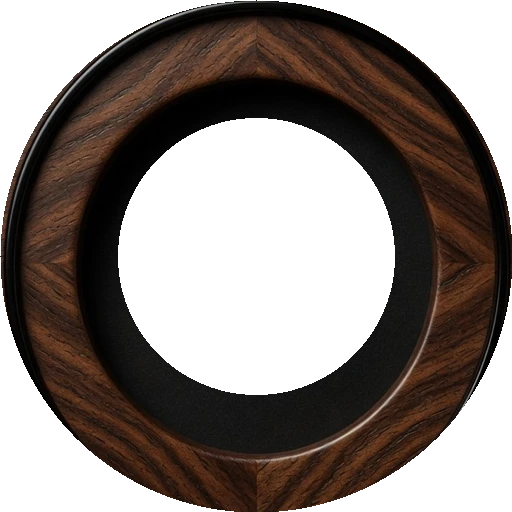
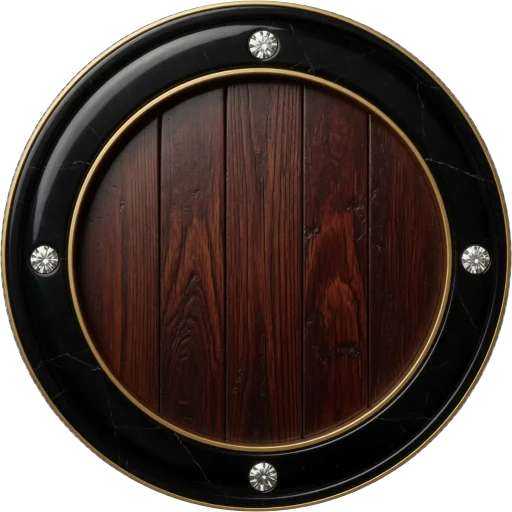
feat(badges): the seven signed photoreal plates - Diamond and Limited cropped to Gold's circle
Brian signed the labeled dock (Locked, Wood, Bronze, Silver, Gold, Diamond, Limited).
Diamond is cropped from Grok's finished still (two pave rows, flat band, pale oak),
Limited from the signed onyx + cherry still; both on the 1022px disc every other plate
uses. frames/ now serves 512 WebP (~330KB for all seven instead of ~1.1MB); the 1024
originals live in masters/plates-1024. docs/BADGE_ART.md is the record.

diff --git a/docs/BADGE_ART.md b/docs/BADGE_ART.md
@@ -1,0 +1,273 @@
+# Badge medals — photoreal art (#150)
+
+**Canonical for Claude and Grok.** Read this before generating, cropping, or compositing any badge
+image. Award rules stay in the #21 body and `sql/badges-migration.sql`. This file is the pictures
+and how `Medal` draws them.
+
+Board card: [#150](https://github.com/bbapties/pourchoicesapp/issues/150) (In Progress, Design/UI, L).
+Do not reopen #140. #21 stays the epic. **Do not push until Brian has signed the seven empty
+plates, then seen Founder's Reserve on the real Profile shelf at 100px and the 38px ladder.**
+
+---
+
+## Right now (2026-09-21, evening)
+
+**The seven empty plates are signed** (Brian, 2026-09-21 - the labeled dock is what he sent back
+as "the background base of all the medals") **and wired in.** `frames/` serves all seven at 512;
+the 1024 originals are in `masters/plates-1024/`. Diamond was cropped from `masters/diamond-signed.jpg`
+(Grok's finished still), Limited from `masters/limited-signed.jpg`, both onto Gold's circle.
+
+`Medal` now draws **plate + the badge's SVG glyph inlaid in the well + stars**. The glyph is the
+interim object layer: it uses the same `<use>` geometry as the old coin (72/140 of the disc) and the
+frame's `--medal-*` ramp, so it reads as a metal inlay on the wood. The all-SVG coin only draws if a
+plate image fails to load. `hasPhotoreal()` is gone - every badge is photoreal.
+
+**Next: the objects, one badge at a time.** Each is an `image_edit` from the Founder's Reserve
+bottle (same camera, same key light), keyed to a transparent cutout, saved as
+`public/badges/objects/<badgeId>.webp`, and shown to Brian ON the plate at 100px and 38px before it
+replaces that badge's glyph. Do not batch-generate the catalog. The FR bottle composite on Limited
+was rejected once; re-show it on the signed Limited plate before anything else.
+
+---
+
+## What a medal is
+
+Not a thick Olympic coin with a line-icon glyph. A **barrel top in a metal picture frame**,
+studio-lit, cropped to a circle that sits on the Profile leather.
+
+```
+[back]  object cutout     — miniature still-life, transparent, same camera as FR
+[mid]   ring plate        — photoreal frame; well is tinted vertical oak until an object exists
+[front] stars             — 0–4 five-point stars drawn in code, never baked into the PNG
+```
+
+Empty plates (what Brian is signing now) are the mid layer with wood in the well and no object.
+When objects return, the object sits **behind** the rings so the inner ring overlaps it (the FR
+wax tucks under metal). Stars sit in the band between the two rings.
+
+A new badge is one object file. A metal retune is one plate. Target art set is **~25 files, not
+~90**.
+
+---
+
+## Locked decisions
+
+Do not re-walk these. They were settled with Brian on 2026-09-21.
+
+- **Gold is the geometry master.** All seven plates share one circle, one diameter, one center.
+  Output: **1024×1024** (or 512 WebP for the app), face-on, outer rim = the image circle,
+  transparent corners. Square file; empty corners are expected; the medal is the disc.
+- **Redraw from gold. Do not recrop the old 2:3 studio portraits.** Those shots are slightly
+  elliptical and off-center. Incremental crop/scale chased left gutters and shaved the
+  bottom-right rim for an hour. Method: `image_edit` the gold master (change metal + well tint
+  only). Wood and Limited last so they cannot drift.
+- **Wood is the base plate, not a metal variant.** Literal barrel top: vertical raw/charred oak
+  staves, **one hoop, no inner metal ring**. Stars will sit on the hoop.
+- **Every other plate = that barrel language + a double metal ring.** Center wood is
+  **aesthetically tinted** to sit with the metal (ashen / copper / grey / honey / pale / cherry) —
+  not painted the metal color, not a charcoal paper disc.
+- **Solid fill in the band between the two rings.** Not an open gap. That band is the star zone.
+- **Limited is not a ladder rung.** Onyx ring, four compass diamonds, thin gold rim, **no wood
+  ring**, well = vertical planks in a rich polished dark cherry stain. Founder's Reserve lives
+  here.
+- **Platinum is gone.** Ladder copy renamed in place (thresholds unchanged). Someone who already
+  holds old Gold Regular Pour (tier 3) now reads **Silver**. Cheap: four users, moments off.
+- **Frame pick is a rule, not `tier === 1`.** One-offs are stored as tier 1. They pick `wood` or
+  `limited` from an allow-list (`LIMITED_IDS` in `src/lib/badgeArt.ts`). Founder's Reserve =
+  `limited`. Early Adopter / Installed / Tastemaker = `wood`.
+- **Stars are code.** 0–4, group grows and stays centered, no empty seats. 0 = clean rings; 1 =
+  one star at 12 o'clock. Fill follows the frame (`--medal-*-hi`). `sub_tier` is still always 0;
+  overlay ships anyway. One-offs follow the data — no special "never stars" rule.
+- **Object never changes metal.** Only the rings (and stars) do. At 38px, color is what reads.
+- **No words around the rim.** Short stamps on the object are fine when large (`FR` worked).
+- **Same camera and key light on every object.** Every later object is `image_edit` from the FR
+  bottle, never `image_gen` from a blank prompt.
+- **Award engine, thresholds, pushes, #143: untouched.** Copy-only on the client (`TIER_NAME`,
+  coach "Wood to Diamond").
+- **Drop the old SVG sparkle/sweep** on the photoreal path.
+
+---
+
+## The ladder
+
+| `tier` | Old name | New name (`TIER_NAME`) | Frame file | Well tint |
+|---|---|---|---|---|
+| 0 | Locked | Locked | `locked.webp` | dark charcoal oak |
+| 1 | Bronze | **Wood** | `wood.webp` | untinted barrel (no inner ring) |
+| 2 | Silver | **Bronze** | `bronze.webp` | warm copper oak |
+| 3 | Gold | **Silver** | `silver.webp` | cool grey oak |
+| 4 | Platinum | **Gold** | `gold.webp` | honey oak |
+| 5 | Diamond | Diamond | `diamond.webp` | pale weathered oak |
+| — | — | **Limited** | `limited.webp` | dark cherry oak |
+
+Judge every plate at **38px first**, then 100px. Sizes that must hold: 38 (ladder), 66 (toast),
+100 (shelf), 124 (sheet). App files are 512 WebP today; masters can be 1024.
+
+---
+
+## Signed vs in-flight
+
+| Plate | Signed? | Master to trust | What's wrong in `public/badges/frames/` today |
+|---|---|---|---|
+| **Gold** | Geometry yes | `frames/gold.webp` + `masters/gold-geometry.png` (magenta = outside the medal) | Close enough. Do not recrop. |
+| **Limited** | **Signed** | `masters/limited-signed.jpg` | Nothing - `limited.webp` is the crop of the signed file (2026-09-21). |
+| **Diamond** | **Signed** | `masters/diamond-signed.jpg` | Nothing - `diamond.webp` is the crop of the finished still (2026-09-21). |
+| Wood | **Signed** | `masters/plates-1024/wood.webp` | Nothing. |
+| Locked / Bronze / Silver | **Signed** | `masters/plates-1024/` | Nothing. |
+| Objects | **Frozen** | `objects/founders_reserve.webp` exists | Brian rejected the FR composite (bottle on Limited). Do not iterate the bottle until plates sign off. |
+
+`public/badges/review/` is the **abandoned overlay dock** (barrel hoop visible around the metal).
+Do not copy those into `frames/`. The labeled contact sheet there is history, not the signed set.
+
+Session scratch (Grok only, not in git):
+`C:\Users\whisk\.grok\sessions\C%3A%5Cpourchoices-frontend\01a0c3a2-4c2c-7702-888f-d6e81cd91b31\images\`.
+The four files a cold agent needs were copied to `public/badges/masters/`.
+
+---
+
+## Generation rules
+
+**Do**
+
+- `image_edit` from the gold master (or from a signed plate). Change metal and well tint only.
+- Keep vertical barrel planks in the well. Tint them; do not replace them with a smooth disc.
+- Crop so metal meets the circular edge all the way around. Measure per-side insets if a crop
+  looks off (gold after circularize: left 2 / right 1 / top 1 / bottom 1).
+- Magenta-outside overlay to prove the rim (`masters/gold-geometry.png` is the template).
+- Recrop from the original plate, never from an already-cropped output — each pass compounds offset.
+
+**Do not**
+
+- Recrop the old 2:3 studio shots (session images 24 / 25 / 29 / 27 / 21 / 30).
+- Composite a separate barrel photo *under* a punched ring. Center misses every time; well-key
+  eats Locked and Limited because that metal is as dark as the well.
+- Punch the well with "center is dark." Wood and pewter are already dark; you need a sustained
+  luminance *drop* into the well, or you eat the frame.
+- Square-center a circular mask on a portrait that isn't centered. That shaves bottom-right and
+  leaves studio in Limited's upper-left.
+- Bake stars into the PNG.
+- Treat a generator puck in the well as part of the metal.
+- `image_gen` a later object from a blank prompt.
+- Touch app code, push, or restore the FR bottle on Limited until Brian signs the empty set.
+
+---
+
+## Failed approaches (do not retry)
+
+These each ate a round. The failure mode is in parentheses.
+
+1. **Hole-punch + overlay of barrel `32.jpg` under punched rings 24/25/29/27/21/30.** (Center
+   miss. Color-keying the dark well also ate Locked/Limited hoops.)
+2. **Incremental crop of 2:3 studio portraits into "ring = image edge."** (Photos were ~2% taller
+   than wide and not centered. Left gutter / shaved BR / studio in Limited UL, cycling.)
+3. **One shared radius for every plate.** (Limited needed its own edge check.)
+4. **Auto well-detection on wood/pewter.** (Dark discs, no step-down, over-punched.)
+5. **Shipping FR on Limited before empty plates were signed.** (Brian rejected the composite.
+   Freeze objects.)
+6. **Treating a second FR Imagine as a recut.** (`grok_1789990130602.jpg` is the same language,
+   generated seconds later. Lighting master only. FR still ships on Limited, not aged brass.)
+
+---
+
+## How `Medal` draws (code)
+
+Files: `src/components/badges/Medal.tsx`, `src/lib/badgeArt.ts`.
+
+```ts
+frameFor(tier, oneOff, badgeId)
+  tier === 0          → locked
+  oneOff && limited   → limited          // currently only founders_reserve
+  oneOff              → wood
+  else                → wood|bronze|silver|gold|diamond from tier 1–5
+```
+
+Intended stack (locked plan, `336f9c6`):
+
+```tsx
+<img src={`/badges/objects/${badgeId}.webp`} />   // behind; dim if locked
+<img src={`/badges/frames/${frame}.webp`} />      // holed plate
+<StarOverlay count={sub_tier} frame={frame} />
+{houndInitial && <span>{initial}</span>}
+```
+
+Shipped stack (2026-09-21): the plate `<img>`, then `GlyphOverlay` (the badge's `BadgeSprite`
+symbol with the frame's metal ramp and `pc-pop3d`), then `StarOverlay`. When a badge gets a
+cutout, `GlyphOverlay` is replaced for that badge by an object `<img>` behind the plate - keep the
+glyph as the fallback for badges without one so the shelf never blanks mid-rollout.
+
+`--medal-*` tokens in `src/app/globals.css` are the **star fills** (and the SVG fallback ramps).
+They are the one place a colour outside the room is allowed. Wood has no old SVG ramp — SVG
+fallback borrows bronze.
+
+`scripts/medal_image.mjs` punches a studio ring photo to a 512 circular WebP (transparent outside
+the outer ring and inside the inner well) or keys a black-void object to a transparent WebP.
+Useful again when plates become holed frames. Do not run it on the signed Limited/Diamond masters
+as a substitute for a visual crop — it was written for the first Imagine split.
+
+---
+
+## Object catalog (frozen until plates sign off)
+
+Lighting master: the first Founder's Reserve Imagine (double antique-brass ring, amber bottle,
+dripping red wax stamped `FR`, dark studio). Brass draft = lighting/layout only, not a shipped
+plate.
+
+| `badge_id` | Object in the well |
+|---|---|
+| `founders_reserve` | Miniature amber bottle, red wax `FR` (cutout already at `objects/founders_reserve.webp`) |
+| `regular_pour` | Glencairn of amber whiskey |
+| `night_owl` | Short glass under a crescent moon, or a candle — first pass is cheap to reject |
+| `blindfold` | Silk blindfold draped over a Glencairn |
+| `big_flight` | Flight paddle with three nosing glasses |
+| `helper` | Decanter mid-pour |
+| `collector` | A short row of bottles |
+| `dead_soldiers` | Empty bottle on its side, wax drip |
+| `well_travelled` | Small globe with a bottle |
+| `barcode_bandit` | Bottle label under a scanner beam |
+| `someday` | Wax-sealed tag |
+| `cheers` | Two glasses toasting |
+| `barstool` | Leather barstool or a brass plaque (**not** a speech bubble) |
+| `crowd` | Three glasses on a rail |
+| `contributor` | Fountain pen on a bottle label |
+| `early_adopter` | Rising sun over a copper still |
+| `installed` | Home-screen pin with a Glencairn (**not** a phone UI screenshot) |
+| `tastemaker` | Bottle with a wax-seal check |
+| `hound_*` (later) | One hound + bottle; category letter overlaid in code |
+
+Still open before generate: Night Owl, Barstool, Crowd, Installed. Kill in pixels if they read as
+icons.
+
+Founder's Reserve was **granted to The_Lake_House** (tier 1) so the Limited plate could be
+reviewed. Moments still off (`BADGE_MOMENTS_ENABLED = false`) — nothing was pushed. Hard-refresh
+localhost if the shelf still shows pewter.
+
+---
+
+## File map
+
+```
+public/badges/frames/{locked,wood,bronze,silver,gold,diamond,limited}.webp
+public/badges/objects/{badgeId}.webp          # only founders_reserve today
+public/badges/masters/limited-signed.jpg      # Brian signed this look
+public/badges/masters/diamond-signed.jpg      # the finished Diamond still (cropped to frames/)
+public/badges/masters/diamond-rings.jpg       # earlier Diamond: rings right, honey well
+public/badges/masters/diamond-well-ref.png    # pale oak reference used for the Diamond well
+public/badges/masters/plates-1024/*.webp      # the seven plates at 1024; frames/ is the 512 downsize
+public/badges/masters/gold-geometry.png       # magenta-outside check of the gold master
+public/badges/review/                         # abandoned overlay comps — do not ship
+src/lib/badgeArt.ts                           # frameFor, TIER_NAME, LIMITED_IDS
+src/components/badges/Medal.tsx               # photoreal path + SVG fallback
+src/components/badges/BadgeShelf.tsx          # labels via TIER_NAME
+src/lib/coaches.ts                            # "Wood to Diamond"
+scripts/medal_image.mjs                       # punch/crop helper for holed frames
+```
+
+---
+
+## Out of scope
+
+- Award engine, `badge_tiers` thresholds, `award_badges`, level titles.
+- Turning `sub_tier` on.
+- Unique art per whiskey/gin/rum Hound.
+- Badge Social post (#143) and moments (`BADGE_MOMENTS_ENABLED`).
+- Replacing `BadgeSprite` until objects exist for the whole catalog.

diff --git a/AGENTS.md b/AGENTS.md
@@ -88,6 +88,7 @@ Supabase (auth + Postgres). `npm run dev` → http://localhost:3000.
   Social shelf); per-bottle history and admin screens still show it. **Hide there, do not stop
   logging** — `activities` is the audit trail of what happened to a bottle.
 - **Never touch a bottle image without reading [docs/IMAGE_PIPELINE.md](docs/IMAGE_PIPELINE.md).**
+- **Never generate, crop, or composite a badge medal without reading [docs/BADGE_ART.md](docs/BADGE_ART.md).** Empty plates first; do not push until Brian has signed the set.
   An image only reaches the Home shelf when it is a real transparent cut-out, trimmed tight, and
   carries a `bottle_height` **with** a `bottle_height_source`. Prepare images with
   `node scripts/shelf_image.mjs`; approving one is a judgement and happens in Admin > Images, on a
@@ -193,6 +194,7 @@ node scripts/_psql.mjs "SELECT 1 AS ok;"
 | `docs/board-import-preview.md` | Record of the 2026-09-05 import: what became an issue, what was skipped, why |
 | `docs/archive/` | **Frozen 2026-09-05.** ROADMAP / BUGS / BACKLOG / PHASE8-10 — research only, never status. See its README. |
 | [docs/IMAGE_PIPELINE.md](docs/IMAGE_PIPELINE.md) | **Bottle images — canonical.** Shelf-ready review states and transitions, who may write them, the prepare-an-image script, and the 12in scale contract with `bottle_height_source`. Read before touching any bottle image. |
+| [docs/BADGE_ART.md](docs/BADGE_ART.md) | **Badge medals — photoreal art (#150).** Locked look, the seven plates, signed vs in-flight, generation rules, failed approaches. Read before generating, cropping, or compositing any badge image. |
 | `TELEMETRY.md` | Instrumentation policy — event/activity/usage tracking; what's logged, the proposed generic events table |
 | `DB_Schema.txt.txt` | Supabase schema dump — tables, views (owner vs invoker), functions (SECURITY DEFINER), triggers, RLS policies. **Regenerate after any migration: `node scripts/dump_schema.mjs`** |
 

diff --git a/public/badges/masters/README.md b/public/badges/masters/README.md
@@ -1,0 +1,8 @@
+Signed / reference stills for the photoreal plates. Explained in [docs/BADGE_ART.md](../../../docs/BADGE_ART.md).
+
+- `limited-signed.jpg` — Brian signed this Limited look. Crop to the gold circle; do not regenerate.
+- `diamond-rings.jpg` — Diamond rings locked. Well is the wrong (honey) oak.
+- `diamond-well-ref.png` — Pale weathered oak to copy into Diamond's well. Magenta = outside the medal.
+- `gold-geometry.png` — Gold crop used as the geometry master. Magenta = outside the medal.
+- `diamond-signed.jpg` — the finished Diamond (two pavé rows, flat white-gold band, pale oak well). Cropped to the gold circle → `frames/diamond.webp`.
+- `plates-1024/` — the seven plates at 1024 before the 512 downsize that `frames/` serves. Re-derive `frames/` from here, never upscale.
